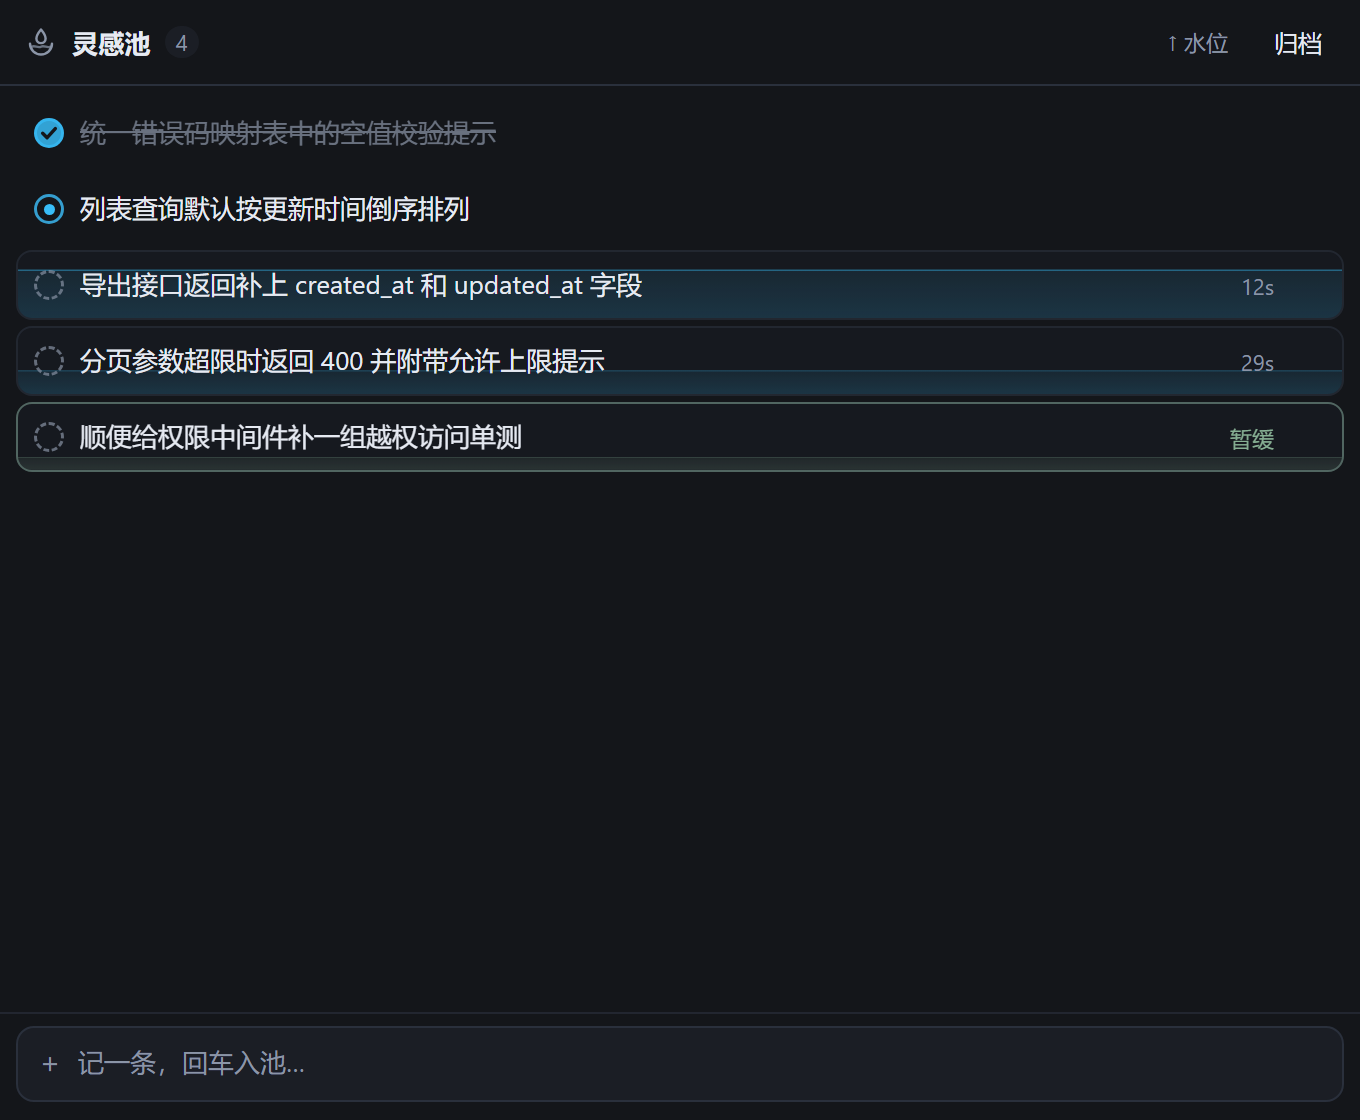
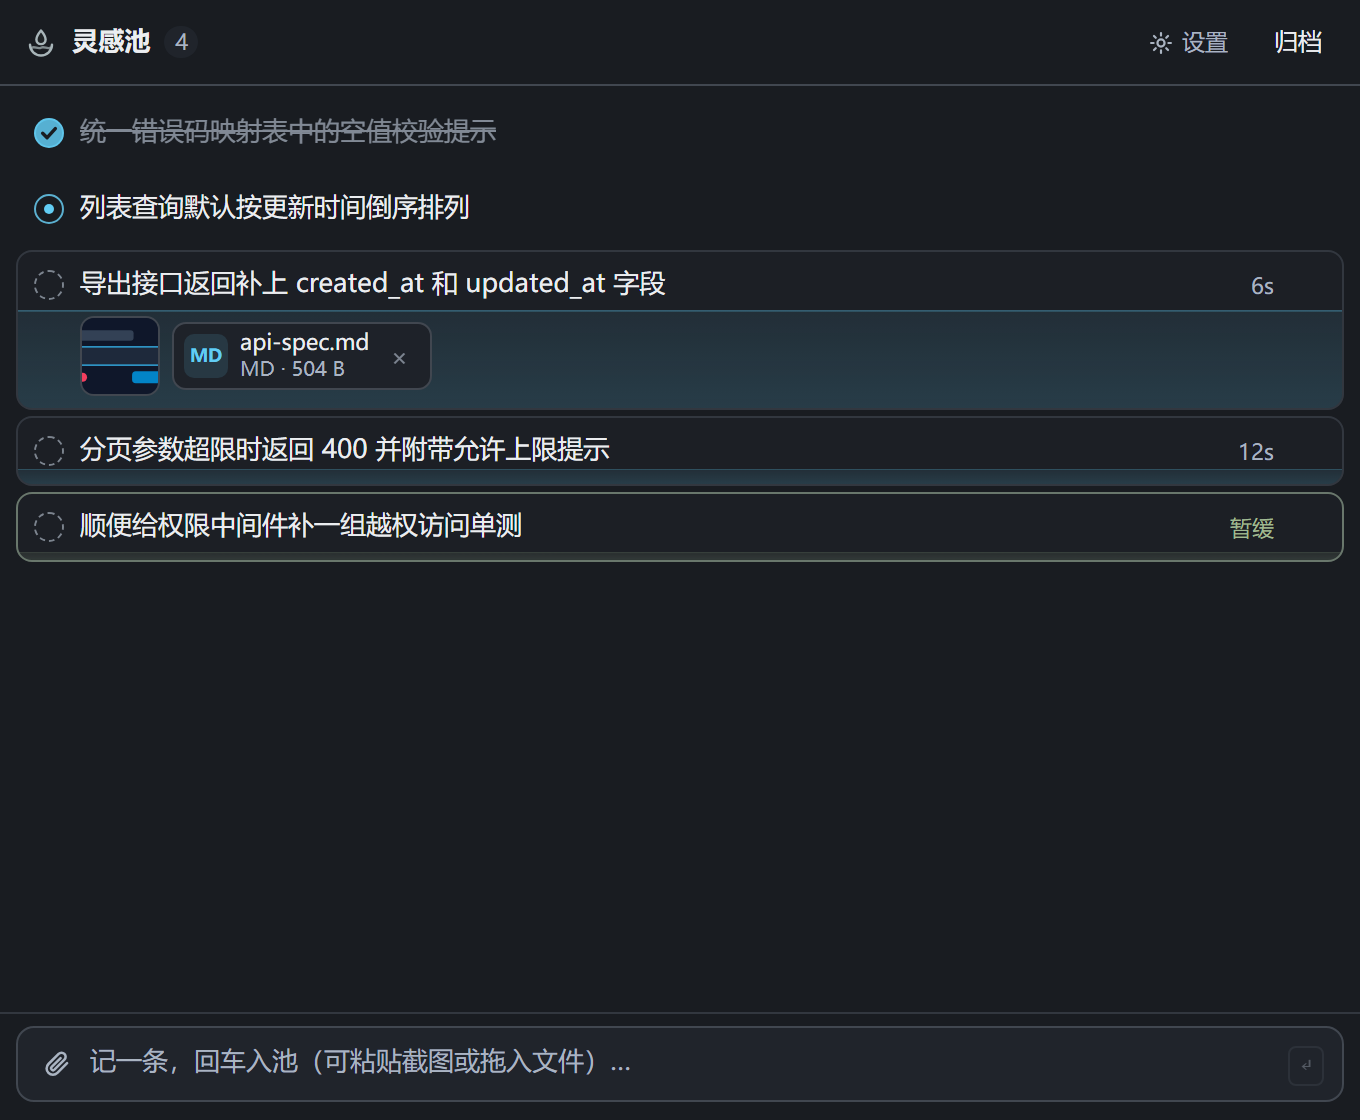
docs: 更新实机截图、Claude Code 文档、路线图与开源协议说明

diff --git a/README.md b/README.md
@@ -50,8 +50,8 @@
 | --- | --- | --- | --- |
 | **安装方式** | 全局安装 `ui-plugin` 至 `plugins/fons-pool`（一次覆盖全部会话） | `fons codex init` → 注册本地插件市场并安装 | `fons claude init` → 注册本地插件市场并安装 |
 | **原生面板** | 右侧扩展侧栏（Sidecar） | 右侧标签栏 **Open → 灵感池** / `@Fons · 灵感池`（MCP Apps） | 桌面端默认自动打开原生侧栏，`/fons` 随时开关 |
-| **附件上传** | 原生面板（粘贴/拖拽/选文件）+ CLI `-a` | 原生面板（粘贴/拖拽/选文件）+ `fons panel` + CLI `-a` | 侧栏点 **「网页版」** / `/fons web`（`fons panel`）+ CLI `-a`（侧栏保留已有附件并显示数量） |
-| **面板内设置** | 完整设置（水位、蓄水、收尾、工作区规则、一键登记） | 完整设置（水位、蓄水、收尾、工作区规则） | 侧栏内置常用设置（`0s`–`45s` 预设、收尾、当前工作区启停）；完整设置见「网页版」 |
+| **附件上传** | 原生面板（粘贴/拖拽/选文件）+ CLI `-a` | 原生面板（粘贴/拖拽/选文件）+ `fons panel` + CLI `-a` | 在「网页版」或通过 CLI `-a` 添加附件，原生侧栏可查看文件名和逐个移除 |
+| **面板内设置** | 完整设置（水位、蓄水、收尾、工作区规则、一键登记） | 完整设置（水位、蓄水、收尾、工作区规则） | 蓄水预设与自定义秒数、收尾等待、工作区默认规则与单独启停、当前会话登记 |
 | **生命周期 Hook** | `SessionStart` / `PreInvocation` / `Stop` | `SessionStart` / `UserPromptSubmit` / `PostToolUse` / `Stop` | `SessionStart` / `UserPromptSubmit` / `PostToolBatch` / `Stop` / `SessionEnd` |
 
 ## 实机截图
@@ -59,18 +59,17 @@
 <table>
   <tr>
     <td align="center" width="50%">
-      <img src="assets/screenshot-dark.png" alt="深色主题 · 自下而上水位与编辑暂缓" width="100%"><br>
-      <sub>深色主题 · 自下而上蓄水（含蓄水中 / 编辑暂缓 / 已投递 / 已完成）</sub>
+      <img src="assets/screenshot-dark.png" alt="深色主题 · 自下而上水位、附件预览与编辑暂缓" width="100%"><br>
+      <sub>深色主题 · 自下而上蓄水（含附件缩略/文件块、编辑暂缓、已投递与已完成）</sub>
     </td>
     <td align="center" width="50%">
-      <img src="assets/screenshot-light.png" alt="浅色主题 · 自左向右水位推进" width="100%"><br>
+      <img src="assets/screenshot-light.png" alt="浅色主题 · 自左向右水位推进与附件预览" width="100%"><br>
       <sub>浅色主题 · 自左向右水位推进</sub>
     </td>
   </tr>
 </table>
 
-> 状态圆点说明：虚线圆圈 = **待投递（蓄水中）**，点击可直接标为完成；实心点圆圈 = **已投递（已发出，等待回执）**；蓝底对勾 = **已完成**，点击可重新打开。  
-> 注：截图用于展示水位与三态视觉效果；当前版本已将水位方向切换收纳至顶栏 **「设置」**，并在底部速记框新增了附件入口。
+> 状态圆点说明：虚线圆圈 = **待投递（蓄水中）**，点击可直接标为完成；实心点圆圈 = **已投递（已发出，等待回执）**；蓝底对勾 = **已完成**，点击可重新打开。
 
 ## 工作原理与架构
 
@@ -101,7 +100,7 @@ Fons 将收件箱解析（`scripts/fons-inbox.mjs`）、状态账本（`scripts/
   - `SessionStart` / `SessionEnd`：登记主会话（忽略带 `agent_id` 的子代理，兼容 `claude --agent` 主会话）、绑定 `<session_id>.jsonl` 主路径锚点并在启动时以事实陈述形式说明 `[FONS_ACK: 编号]` 回执约定；会话结束时记录 `endedAt`，`resume` 恢复时清除。
   - `UserPromptSubmit` / `PostToolBatch`：每批工具调用（含并行与失败调用）仅触发一次，以事实陈述文案注入到期条目与撤回通知（单次 `additionalContext` 上限 `10,000` 字符，超出条目延后到下一投递点）。
   - `Stop`：仅读取 stdin 中的 `last_assistant_message` 提取 `[FONS_ACK: ...]` 自动回写 `【√】 `（不读 transcript 文件，按 `{ promptId, digest }` 去重）；未确认条目通过 `hookSpecificOutput.additionalContext` 按 `prompt_id` 兜底续跑（每轮最多 2 次）。
-  - **原生侧栏模块**：通过 `claude/hooks.json` 加载 `fons-pane.mjs`（源码 `claude/pane.mjs`），经 `claude/pane-bridge.mjs` 复用统一账本路由并按需拉起本地 `fons panel` 网页版。
+  - **原生侧栏模块**：通过 `claude/hooks.json` 加载 `fons-pane.mjs`（源码 `claude/pane.mjs` + `claude/pane-view.mjs`），经 `claude/pane-bridge.mjs` 复用统一账本路由、支持会话原位登记与快照 `etag` 去重，并按需拉起本地 `fons panel` 网页版。
 
 ### 数据落盘与收件箱格式
 
@@ -213,7 +212,7 @@ codex plugin add fons@fons-local
 
 ## Claude Code 快速开始
 
-> **版本要求**：Hook 依赖支持 `PostToolBatch` 的 Claude Code 版本；原生侧栏面板依赖支持插件 UI 模块（`modules`）的版本（具体最低稳定版本号待实测确认）。不支持原生侧栏或纯终端环境可直接使用下方的 [`fons panel`](#通用本地-web-面板) 与 `fons` CLI。
+> **版本要求**：原生侧栏面板需终端 Claude Code `2.1.287+` 或 Desktop 内置 Claude Code `2.1.286+`（终端运行 `claude --version` 查看，桌面端在 Code 页本地会话运行 `/status` 查看），Hook 投递依赖 `PostToolBatch` 事件支持（[原生模块版本说明](https://code.claude.com/docs/en/plugins/mods/overview#turn-mods-on-or-off) · [PostToolBatch 事件](https://code.claude.com/docs/en/hooks#posttoolbatch)）。更早版本或纯命令行脚本场景可直接使用下方的 [`fons panel`](#通用本地-web-面板) 与 `fons` CLI。
 
 ### 1. 准备与安装本地插件
 
@@ -231,15 +230,16 @@ claude plugin install fons@fons-local
 
 ### 2. 使用原生侧栏与网页版
 
-- **桌面端原生侧栏（默认自动打开）**：
+- **开关与状态条**：
   - 在对话框输入 `/fons` 可随时开关右侧原生灵感池侧栏（`immediate` 命令，不打断当前执行中的轮次），还支持：
     - `/fons <补充内容>`：直接快速入池（支持多行拆分）
     - `/fons open` / `/fons close`：显式打开或关闭侧栏
     - `/fons web`：在浏览器打开本地完整网页版面板
   - 可在插件配置中将 **「启动时自动打开侧栏」**（`openAtStart`）设为 `off` 改为按需打开；纯终端会话默认不自动打开（需手动 `/fons`），若终端内被内联放置且非手动打开也会自动收起以避免挤压界面。
-  - 侧栏内支持文本速记、1 秒实时蓄水进度条、行内编辑暂缓（自动续期并保留已有附件）、完成、删除/撤回、重开、归档、`↻` 刷新及 `⚙` 常用设置（`0s / 15s / 30s / 45s` 蓄水预设、收尾等蓄水满、当前工作区启停）。
-  - 侧栏关闭且池中存在未完成（蓄水中或已投递）条目时，输入框上方会显示精简状态条与 **「打开侧栏」** 快捷按钮。
-- **上传截图 / 文件或查看完整设置**：点击侧栏右上角 **「网页版」**（或运行 `/fons web`），Fons 会按需拉起并复用后台回环 Web 面板（闲置 `15` 分钟自动退出）。
+  - 侧栏收起且池中仍有蓄水或已投递条目时，输入框上方会显示精简状态条与 **「打开侧栏」** 快捷按钮；存在已到期条目时会标出「含就绪待投」。
+- **原地编辑与附件管理**：顶部速记框常驻可用；点击待投递条目的 **「编辑」** 直接在原条目处展开编辑框（仅暂缓该条自身计时并自动续期），已有附件按文件名展示并支持编辑时逐个移除（保存后生效）。粘贴截图或拖拽新增附件可点顶栏 **「网页版」**（按需拉起并复用后台回环 Web 面板，闲置 `15` 分钟自动退出）或运行 `/fons web` / `fons -a`。
+- **双端排版与折叠归档**：原生视图自动适配桌面端与终端密度（终端采用 6 格彩色水位条与紧凑行距），操作期间即时显示「处理中…」并拦截重复点击；仍有活跃条目且已完成满 `3` 条时，**「已完成」** 分组默认折叠，展开可重开单条灵感，点击组头 **「归档」** 可一键收拢全部已完成条目。
+- **原生设置与会话原位登记**：点击顶栏 `⚙` 可切换 `0s / 15s / 30s / 45s` 预设或输入 `0`–`3600` 的整数秒数，支持开关「收尾等蓄水满」、「所有工作区默认自动启用」以及配置当前工作区的单独启停或恢复默认；会话中途加载插件后，若工作区已启用且能唯一定位当前主转录文件，可直接点击 **「立即启用当前会话」** 免重启开始速记。
 
 ---
 
@@ -312,3 +312,7 @@ node --test
 ```
 
 各里程碑实现记录与后续演进方向见 [ROADMAP.md](ROADMAP.md)。
+
+## 开源协议
+
+本项目采用 [MIT License](LICENSE) 开源协议。

diff --git a/ROADMAP.md b/ROADMAP.md
@@ -53,7 +53,7 @@
 
 ## 5. 【已完成】Claude Code 适配与原生侧栏面板
 
-> **版本要求**：Hook 最低需要支持 `PostToolBatch` 的 Claude Code 版本；原生侧栏面板依赖插件 UI 模块（`modules`）能力（具体最低版本号待实测确认）。
+> 宿主版本和检查方法见 [Claude Code 快速开始](README.md#claude-code-快速开始)。
 
 - **共享基础设施与适配层**：
   - 抽取 `adapters/shared.mjs` 与 `scripts/fons-package.mjs` 消除跨宿主重复，新增 `adapters/claude.mjs` 并注册至 `adapters/index.mjs` 与 `scripts/fons-sessions.mjs`（支持 `--host claude` / `FONS_HOST=claude` / `CLAUDE_CONFIG_DIR` 与唯一活跃会话优先匹配）。
@@ -93,10 +93,14 @@
 
 ---
 
-## 8. Claude Code 原生插件界面优化
+## 8. 【已完成】Claude Code 原生插件界面优化
 
-- **原生侧栏交互与视觉打磨**：
-  - 持续优化 `claude/pane.mjs` 原生侧栏的排版布局、操作交互、状态反馈与设置项完整度；
-  - 实机核验并标注 `PostToolBatch` 与插件 UI 模块（`modules`）的最低稳定版本。
-- **原生附件与多入口体验演进**：
-  - 随宿主插件 UI 模块组件能力演进探索更顺滑的原生附件交互，并持续优化与本地回环网页版面板（`fons panel`）的协同切换体验。
+- **视图解耦与双表面自适应排版（`claude/pane.mjs` + `claude/pane-view.mjs`）**：
+  - 抽离纯声明式视图模块 `claude/pane-view.mjs`（打包映射为 `hooks/pane-view.mjs`），桌面端与终端共用同一套原生组件树并按表面自适应密度（终端采用 6 格彩色水位条与零额外空行紧凑布局）；
+  - 顶栏去重并展示当前工作区名（或「无工作区」）与实时计数摘要，侧栏关闭时 `AbovePrompt` 状态条补充「含就绪待投」提示，已完成区支持按组折叠/展开（活跃条目非空且已完成满 3 条时默认折叠）与组头一键归档。
+- **原地编辑、附件可见性与即时交互反馈**：
+  - 点击「编辑」直接在原条目位置展开编辑框并暂缓该条计时，顶部速记框保持常驻可用；已有附件按文件名展示，编辑态支持逐个移除单个附件；
+  - 操作期间即时显示「处理中…」状态并拦截重复点击，轮询引入覆盖配置、条目与编辑暂缓过期状态的快照 `etag` 比对以跳过无变化重绘。
+- **原生设置对齐、会话原位登记与版本核验（`claude/pane-bridge.mjs`）**：
+  - 原生设置面板补齐非预设秒数回显与 `0`–`3600` 秒自定义输入、「所有工作区默认自动启用」开关以及当前工作区单独规则重置（恢复默认）；
+  - 支持会话中途加载插件后的原位一键登记（校验工作区启用状态并绑定唯一 `<session_id>.jsonl` 主会话转录文件），明确终端 Claude Code `2.1.287+` 与 Desktop `2.1.286+` 版本起点并完成打包校验与实机测试验收。
